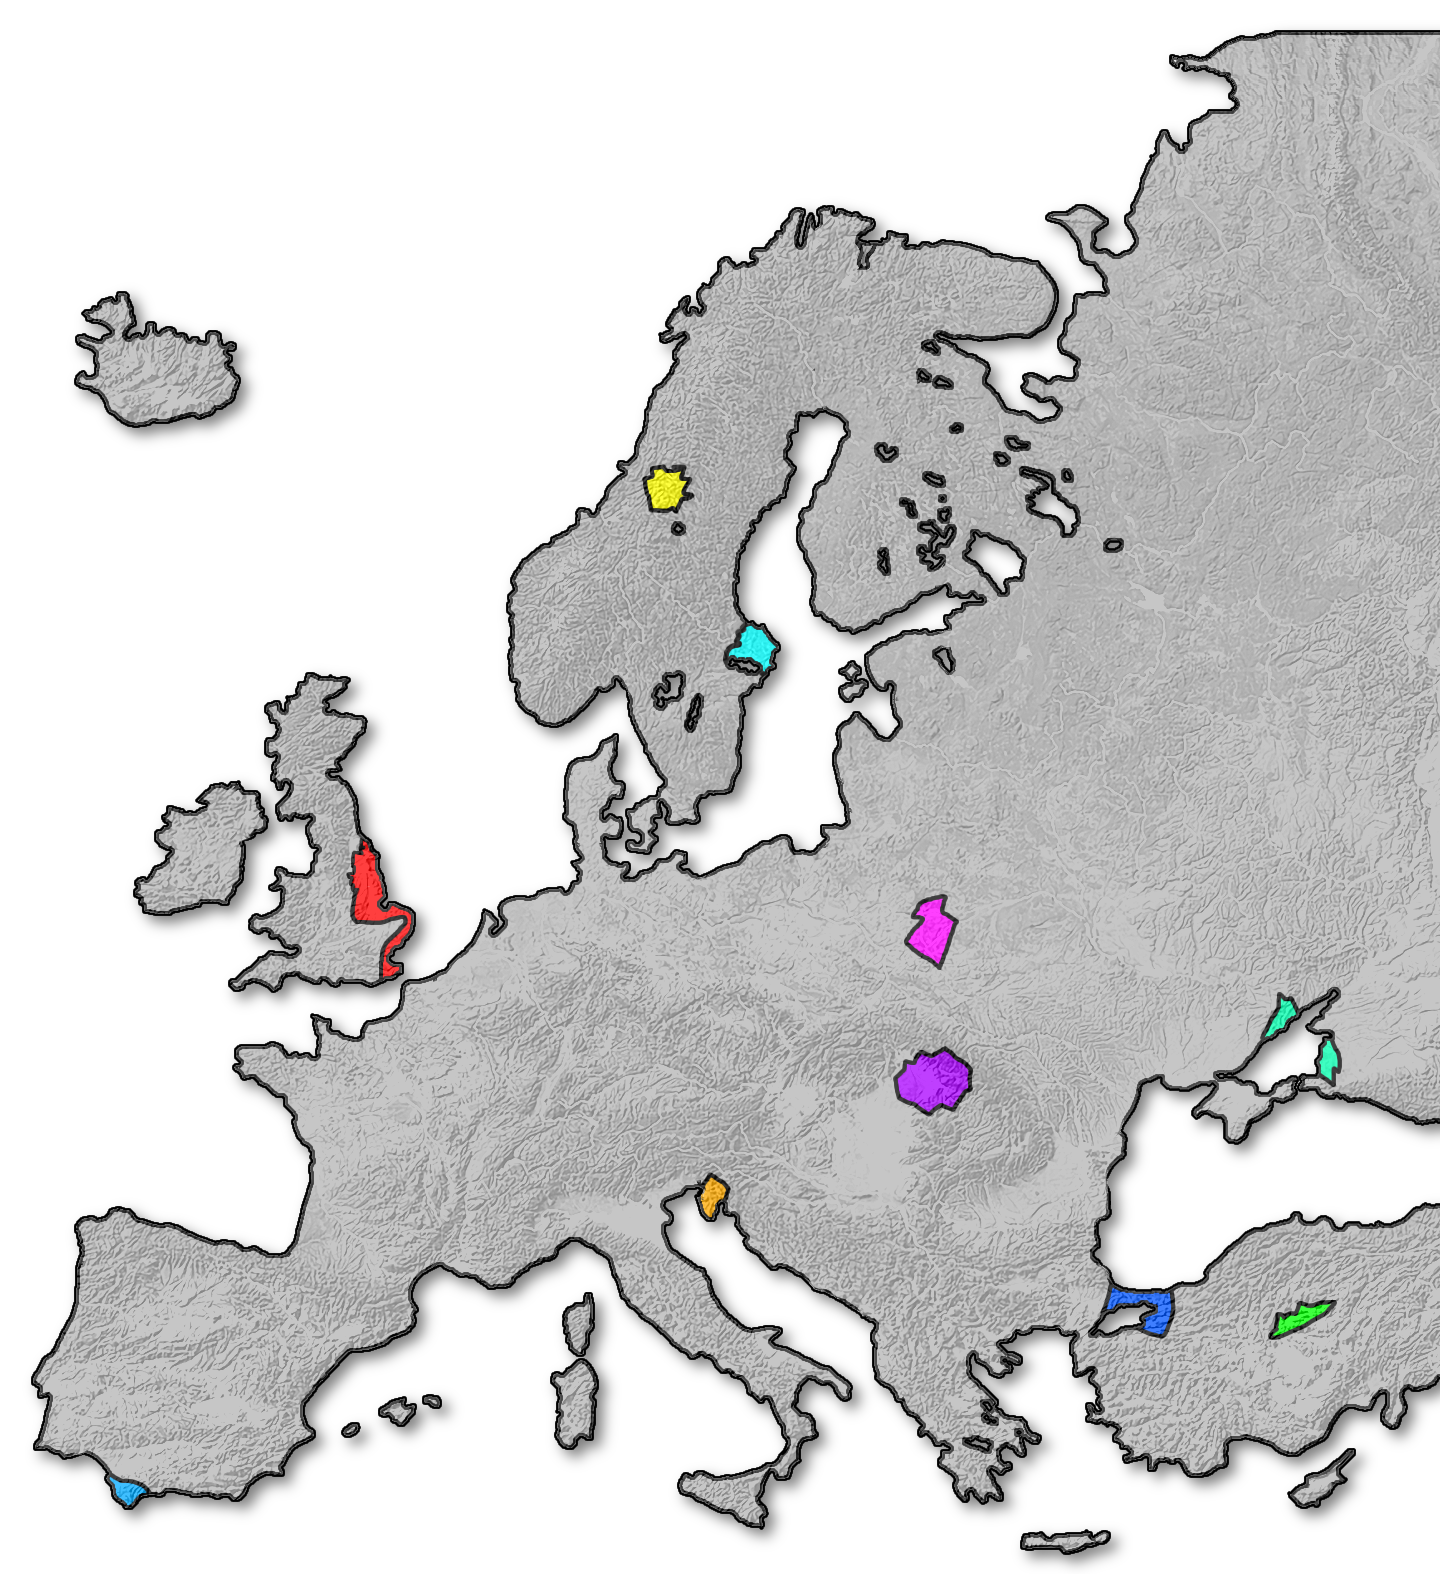
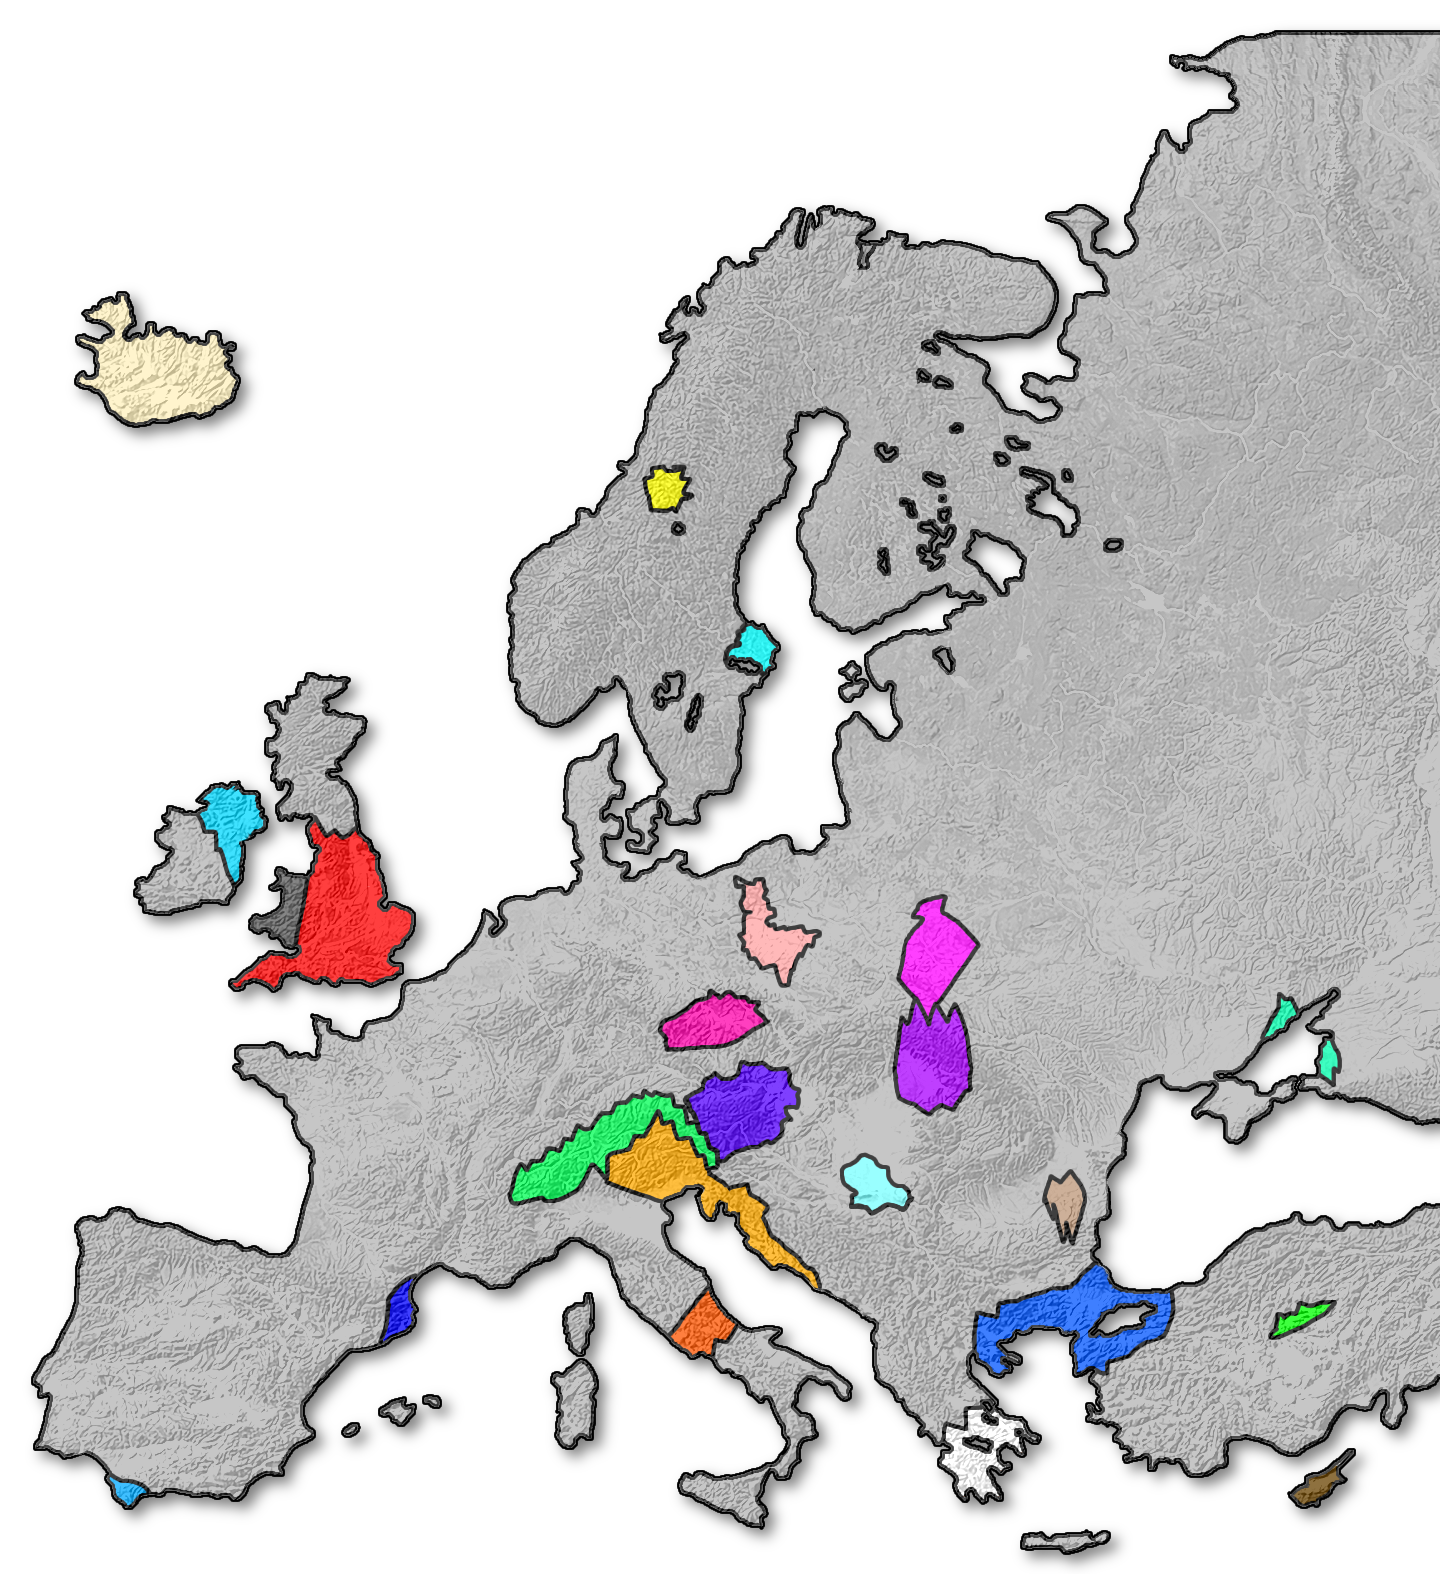
Fourth Commit

diff --git a/index.html b/index.html
@@ -207,7 +207,7 @@
       <h2>Color Key</h2>
       <ul>
         <li><span class="color-box" style="background:red;"></span> York</li>
-        <li><span class="color-box" style="background:#ffaa00;"></span> Istarska</li>
+        <li><span class="color-box" style="background:#ffaa00;"></span> Szoski</li>
         <li><span class="color-box" style="background:#ffff00;"></span> Trondeland</li>
         <li><span class="color-box" style="background:#00ff00;"></span> Ankara</li>
         <li><span class="color-box" style="background:cyan;"></span> Crambia</li>
@@ -216,6 +216,18 @@
         <li><span class="color-box" style="background:#0055ff;"></span> Istanbul</li>
         <li><span class="color-box" style="background:#00ffae;"></span> Yamnaya</li>
         <li><span class="color-box" style="background:#00aaff;"></span> Gibraltar</li>
+        <li><span class="color-box" style="background:#ff5500;"></span> Rome</li>
+        <li><span class="color-box" style="background:#5D5D5D;"></span> Gwynedd</li>
+        <li><span class="color-box" style="background:#00d8ff;"></span> Dublin Tribes</li>
+        <li><span class="color-box" style="background:#0000ff;"></span> Fransis</li>
+        <li><span class="color-box" style="background:#00ff55;"></span> Alpine Tribes</li>
+        <li><span class="color-box" style="background:#5500ff;"></span> Vienna</li>
+        <li><span class="color-box" style="background:#fFf1BC;"></span> Ísland </li>
+        <li><span class="color-box" style="background:#fF00aa;"></span> Prague </li>
+        <li><span class="color-box" style="background:#fFa2a2;"></span> Wielkopolska </li>
+        <li><span class="color-box" style="background:#78ffff;"></span> Belgrade </li>
+        <li><span class="color-box" style="background:#bc9678;"></span> Tey </li>
+        <li><span class="color-box" style="background:#fFffff;"></span> Athens </li>
       </ul>
     </div>
   </div>
@@ -238,104 +250,227 @@
     const civilizations = [
       {
         name: "York",
-        population: 2629542,
-        populationDensity: 43,
-        gdp: 0.476,
-        military: 2026591,
+        population: 15650265,
+        populationDensity: 776        ,
+        gdp: 3.317,
+        military: 12184739        ,
         allies: [],
-        enemies: [],
+        enemies: ["Gwynedd"],
         founded: "10000 BC",
       },
       {
         name: "Trondeland",
-        population: 644288,
-        populationDensity: 11,
-        gdp: 0.096,
-        military: 566221,
+        population: 89128,
+        populationDensity: 3,
+        gdp: 0.48,
+        military: 43242,
         allies: [],
         enemies: [],
         founded: "9500 BC",
       },
       {
         name: "Crambia",
-        population: 423362,
-        populationDensity: 93,
-        gdp: 0.065,
-        military: 281850,
+        population: 1239872/2,
+        populationDensity: 30,
+        gdp: 0.121,
+        military: 642532/2,
         allies: [],
         enemies: [],
         founded: "9500 BC",
       },
+      // Updated civilizations data for the year 5000 BC
+
       {
         name: "Satu Mare",
-        population: 217805,
-        populationDensity: 85,
-        gdp: 0.082,
-        military: 173992,
+        population: 1010203,           // Increased from 217,805 to 1,000,000
+        populationDensity: 95,         // Increased from 85 to 95 people/km²
+        gdp: 0.154,                    // Increased from 0.082 to 0.150 Billion USD
+        military: 350332,              // Increased from 173,992 to 350,000
         allies: [],
         enemies: [],
-        founded: "9500 BC",
+        founded: "9500 BC",            // Founding date remains the same
       },
       {
         name: "Polans Tribe",
-        population: 937657,
-        populationDensity: 71,
-        gdp: 0.074,
-        military: 119132,
+        population: 2023423,           // Increased from 937,657 to 2,000,000
+        populationDensity: 82,         // Adjusted from 71 to 80 people/km²
+        gdp: 1.45,                    // Increased from 0.074 to 0.200 Billion USD
+        military: 303242,              // Increased from 119,132 to 300,000
         allies: [],
         enemies: [],
         founded: "9500 BC",
       },
       {
-        name: "Istarska",
-        population: 105650,
-        populationDensity: 3,
-        gdp: 0.005,
-        military: 68756,
+        name: "Szoski",
+        population: 509875,            // Increased from 105,650 to 500,000
+        populationDensity: 34,         // Increased from 3 to 10 people/km² (reflecting urbanization)
+        gdp: 0.893,                    // Increased from 0.005 to 0.050 Billion USD
+        military: 103298,              // Increased from 68,756 to 100,000
         allies: [],
-        enemies: [],
+        enemies: ["Alpine Tribes"],
         founded: "9500 BC",
       },
       {
         name: "Ankara",
-        population: 141174,
-        populationDensity: 64,
-        gdp: 0.07,
-        military: 139154,
+        population: 602311,            // Increased from 141,174 to 600,000
+        populationDensity: 80,         // Increased from 64 to 80 people/km²
+        gdp: 0.124,                    // Increased from 0.07 to 0.120 Billion USD
+        military: 250443,              // Increased from 139,154 to 250,000
         allies: [],
         enemies: [],
         founded: "9500 BC",
       },
       {
         name: "Istanbul",
-        population: 699389,
-        populationDensity: 57,
-        gdp: 0.068,
-        military: 683519,
+        population: 1202318,           // Increased from 699,389 to 1,200,000
+        populationDensity: 65,         // Slight increase from 57 to 65 people/km²
+        gdp: 0.150,                    // Increased from 0.068 to 0.150 Billion USD
+        military: 800433,              // Increased from 683,519 to 800,000
         allies: [],
         enemies: [],
         founded: "9500 BC",
       },
       {
         name: "Yamnaya",
-        population: 669046,
-        populationDensity: 86,
-        gdp: 0.026,
-        military: 200588,
+        population: 808709,            // Increased from 669,046 to 800,000
+        populationDensity: 100,        // Increased from 86 to 100 people/km²
+        gdp: 0.050,                    // Increased from 0.026 to 0.050 Billion USD
+        military: 302473,              // Increased from 200,588 to 300,000
         allies: [],
         enemies: [],
         founded: "9500 BC",
       },
       {
         name: "Gibraltar",
-        population: 440245,
-        populationDensity: 65,
-        gdp: 0.045,
-        military: 383503,
+        population: 606423,            // Increased from 440,245 to 600,000
+        populationDensity: 75,         // Increased from 65 to 75 people/km²
+        gdp: 0.060,                    // Increased from 0.045 to 0.060 Billion USD
+        military: 406153,              // Slight increase from 383,503 to 400,000
         allies: [],
         enemies: [],
         founded: "9500 BC",
       },
+      {
+        name: "Gwynedd",
+        population: 4739591,
+        populationDensity: 120,
+        gdp: 1.28,
+        military: 3680218,
+        allies: ["Dublin Tribes"],
+        enemies: ["York"],
+        founded: "5000 BC",
+      },
+      {
+        name: "Dublin Tribes",
+        population: 2909578        ,
+        populationDensity: 343        ,
+        gdp: 1.28,
+        military: 3680218,
+        allies: ["Gwynedd"],
+        enemies: [],
+        founded: "5000 BC",
+      },
+      {
+        name: "Ísland",
+        population:102348       ,
+        populationDensity: 1,
+        gdp: 1.28,
+        military: 93421,
+        allies: [],
+        enemies: [],
+        founded: "5000 BC",
+      },
+      {
+        name: "Fransis",
+        population:1012319       ,
+        populationDensity: 244,
+        gdp: 0.836,
+        military: 911676,
+        allies: [],
+        enemies: [],
+        founded: "5000 BC",
+      },
+      {
+        name: "Alpine Tribes",
+        population:4025768,
+        populationDensity: 472,
+        gdp: 7.43,
+        military: 1418649        ,
+        allies: [],
+        enemies: ["Szoski"],
+        founded: "5000 BC",
+      },
+      {
+        name: "Wielkopolska",
+        population:1156425,
+        populationDensity: 395,
+        gdp: 1.337,
+        military: 325999       ,
+        allies: [],
+        enemies: [],
+        founded: "5000 BC",
+      },
+      {
+        name: "Rome",
+        population:4433006,
+        populationDensity: 427,
+        gdp: 1.077,
+        military: 950320      ,
+        allies: [],
+        enemies: [],
+        founded: "5000 BC",
+      },
+      {
+        name: "Athens",
+        population:3353760,
+        populationDensity: 214,
+        gdp: 1.574,
+        military: 980222       ,
+        allies: [],
+        enemies: ["Istanbul"],
+        founded: "5000 BC",
+      },
+      {
+        name: "Belgrade",
+        population:3184612,
+        populationDensity: 329,
+        gdp: 2.307,
+        military: 2936624       ,
+        allies: [],
+        enemies: [],
+        founded: "5000 BC",
+      },
+      {
+        name: "Tey",
+        population:1498759,
+        populationDensity: 486,
+        gdp: 0.859,
+        military: 1218823        ,
+        allies: [],
+        enemies: [],
+        founded: "5000 BC",
+      },
+      {
+        name: "Vienna",
+        population:2784165,
+        populationDensity: 294,
+        gdp: 1.104,
+        military: 1367682        ,
+        allies: [],
+        enemies: [],
+        founded: "5000 BC",
+      },
+      {
+        name: "Prague",
+        population:4947963,
+        populationDensity: 209,
+        gdp: 1.424,
+        military: 3986848        ,
+        allies: [],
+        enemies: [],
+        founded: "5000 BC",
+      },
+      
     ];
     
     // =======================
